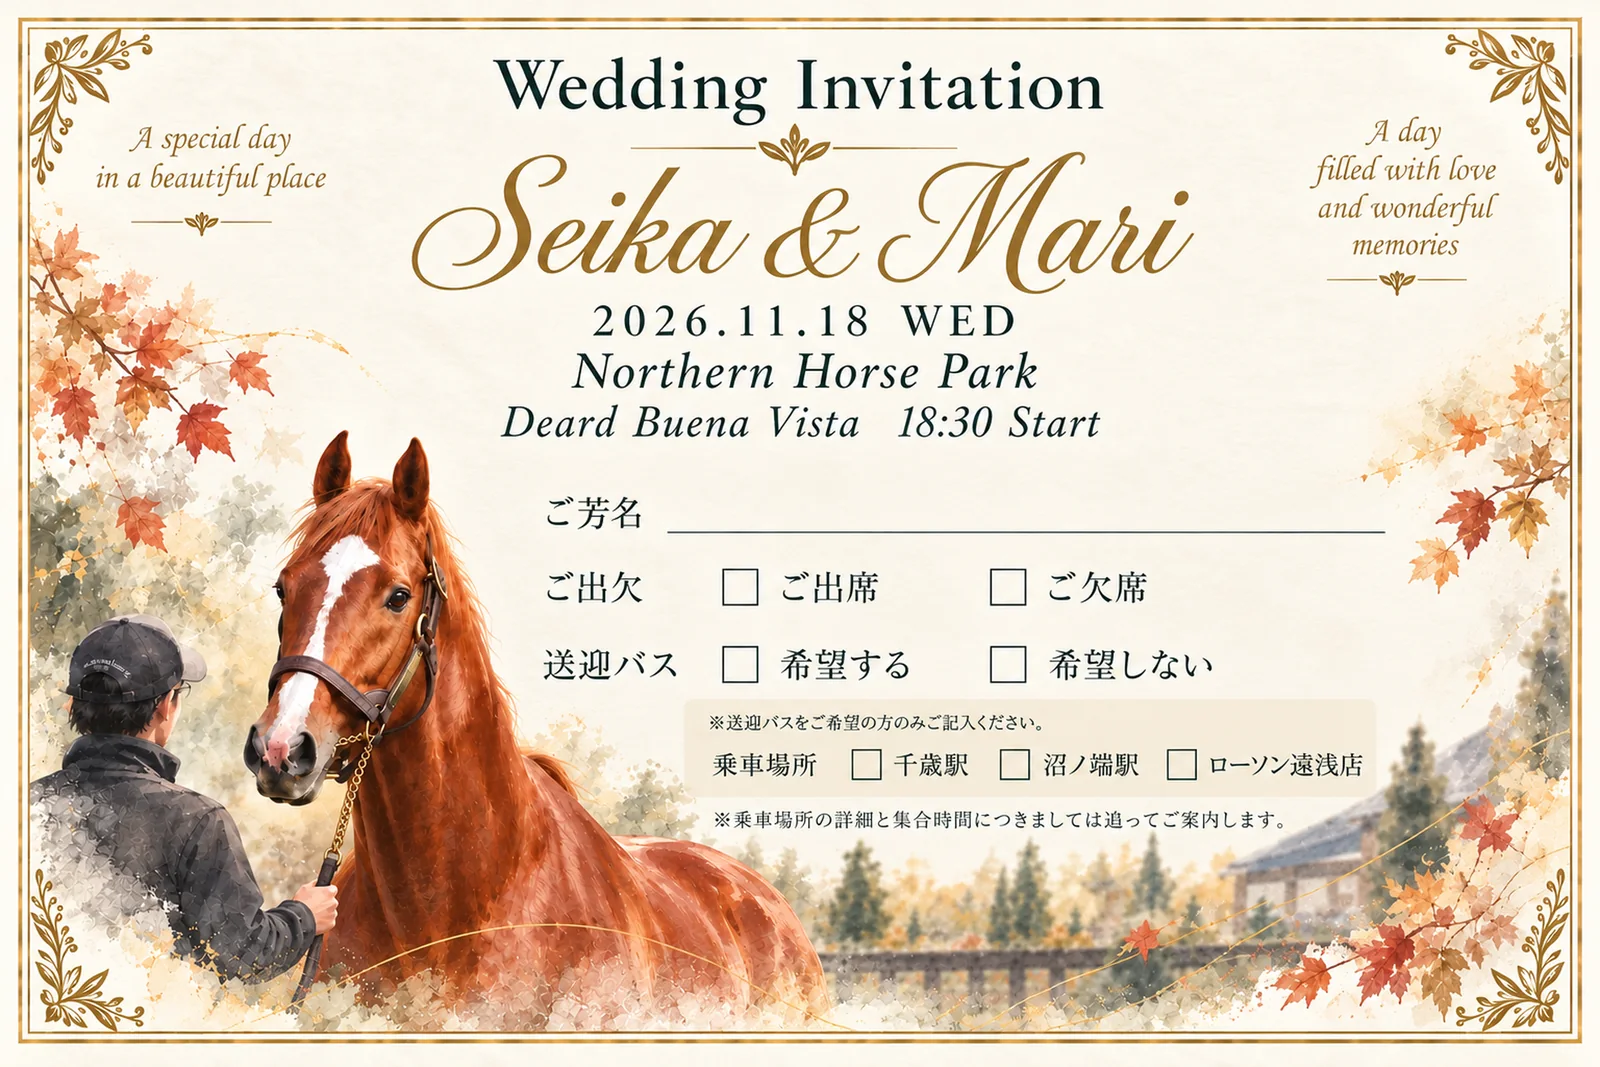
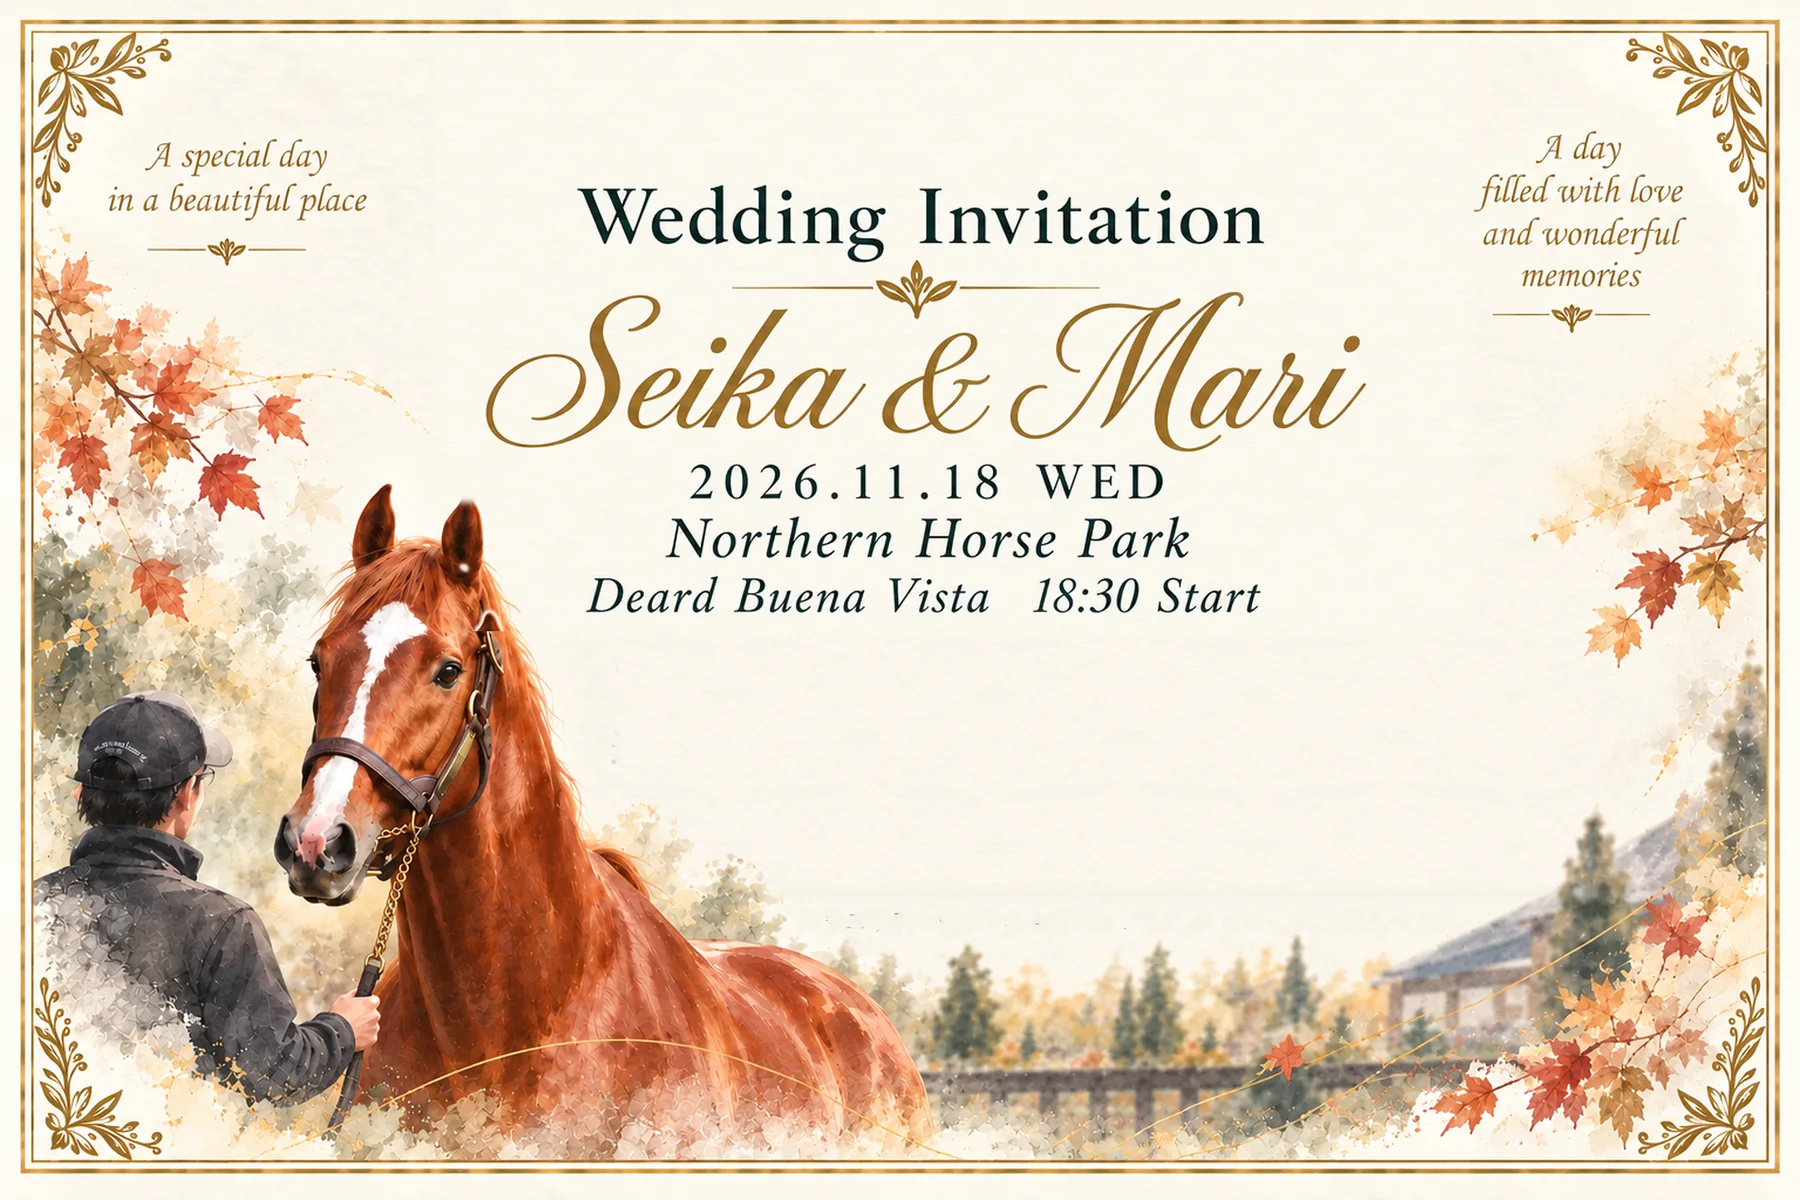
Rework the card without reply fields; fade paintings behind the greeting

Changed region(s): [[0.25, 0.0309, 0.8438, 0.7732], [0.6562, 0.5876, 0.75, 0.6495], [0.25, 0.4948, 0.2812, 0.5258]]

diff --git a/index.html b/index.html
@@ -9,7 +9,7 @@
 <meta property="og:url" content="https://seika-mari-wedding.github.io/hokkaido/">
 <meta property="og:title" content="Seika &amp; Mari — お祝いの会のご案内">
 <meta property="og:description" content="2026年11月18日（水）午後6時30分 開宴／ノーザンホースパーク Deard Buena Vista">
-<meta property="og:image" content="https://seika-mari-wedding.github.io/hokkaido/ogp.jpg">
+<meta property="og:image" content="https://seika-mari-wedding.github.io/hokkaido/ogp.jpg?v=2">
 <meta property="og:image:width" content="1200">
 <meta property="og:image:height" content="630">
 <meta property="og:locale" content="ja_JP">
@@ -102,7 +102,16 @@ h1,h2,h3,p,dl,dd,figure{margin:0}
 /* ── 招待状らしい額 ── */
 .card{position:relative;background:var(--paper-2);border:1px solid var(--line);
  padding:clamp(44px,7vw,78px) clamp(24px,5vw,56px);box-shadow:0 24px 60px rgba(90,56,22,.1)}
-.card:before{content:"";position:absolute;inset:9px;border:1px solid #ecdcc0;pointer-events:none}
+.card:before{content:"";position:absolute;inset:9px;border:1px solid #ecdcc0;pointer-events:none;z-index:2}
+.card{overflow:hidden;isolation:isolate}
+.card > *:not(.card-bg){position:relative;z-index:1}
+.card > .orn{position:absolute;z-index:2}
+.card-bg{position:absolute;inset:0;z-index:0;pointer-events:none}
+.card-bg figure{margin:0;position:absolute;inset:0;opacity:0;transition:opacity 2.4s ease}
+.card-bg figure.on{opacity:1}
+.card-bg img{width:100%;height:100%;object-fit:cover;opacity:.17;filter:sepia(.25) saturate(.8)}
+.card-bg:after{content:"";position:absolute;inset:0;
+ background:radial-gradient(ellipse at center,rgba(253,248,238,.62) 0,rgba(253,248,238,.34) 55%,rgba(253,248,238,.12) 100%)}
 .orn{position:absolute;width:62px;height:70px;background:url(ornament.webp) center/contain no-repeat;opacity:.9;pointer-events:none}
 .orn.tl{left:6px;top:6px}
 .orn.tr{right:6px;top:6px;transform:scaleX(-1)}
@@ -123,18 +132,6 @@ h1,h2,h3,p,dl,dd,figure{margin:0}
 .stops b{display:block;font:400 clamp(17px,2vw,20px) var(--jp);letter-spacing:.14em}
 .stops span{display:block;margin-top:8px;font:300 10px var(--jps);letter-spacing:.34em;text-transform:uppercase;color:var(--sub)}
 
-.slider{position:relative;overflow:hidden;background:#efe4d2;touch-action:pan-y;aspect-ratio:21/9}
-.slider:focus-visible{outline:1px solid var(--gold);outline-offset:4px}
-.slider:after{content:"";position:absolute;inset:0;pointer-events:none;
- background:linear-gradient(rgba(247,239,224,.3),rgba(247,239,224,.06) 34%,rgba(247,239,224,.3)),
-  linear-gradient(90deg,var(--paper),rgba(247,239,224,0) 14%,rgba(247,239,224,0) 86%,var(--paper))}
-.slides{position:absolute;inset:0}
-.slides figure{margin:0;position:absolute;inset:0;opacity:0;transition:opacity 1.8s ease}
-.slides figure.on{opacity:1}
-.slides img{width:100%;height:100%;object-fit:cover;display:block;filter:saturate(.88)}
-.dots{display:flex;justify-content:center;gap:10px;margin-top:18px}
-.dots button{width:5px;height:5px;padding:0;border:0;border-radius:50%;background:var(--line);cursor:pointer;transition:background .5s}
-.dots button[aria-selected="true"]{background:var(--amber)}
 
 .band{height:clamp(170px,26vw,280px);background:url(scene.webp) center 72%/cover no-repeat;
  -webkit-mask-image:linear-gradient(#0000,#000 38%,#000 76%,#0000);mask-image:linear-gradient(#0000,#000 38%,#000 76%,#0000)}
@@ -199,7 +196,6 @@ footer{padding:clamp(60px,9vw,96px) 0 clamp(50px,7vw,80px);text-align:center}
  .facts > div{grid-template-columns:1fr;gap:6px;padding:20px 2px}
  .facts dt{padding-top:0}
  .stops{grid-template-columns:1fr}
- .slider{aspect-ratio:3/2}
  .card{padding:34px 20px}
  .orn{width:46px;height:52px}
  .letter{font-size:14.5px;line-height:2.5;letter-spacing:.04em}
@@ -227,7 +223,7 @@ footer{padding:clamp(60px,9vw,96px) 0 clamp(50px,7vw,80px);text-align:center}
 <main id="main">
 <section class="hero">
   <figure class="hero-card">
-   <img src="card.webp" width="1600" height="1067" fetchpriority="high"
+   <img src="card.webp?v=2" width="1600" height="1067" fetchpriority="high"
     alt="Wedding Invitation Seika &amp; Mari／2026.11.18 WED／Northern Horse Park／Deard Buena Vista 18:30 Start と記された、紅葉と馬の水彩画の招待状">
   </figure>
   <div class="hero-under">
@@ -244,6 +240,12 @@ footer{padding:clamp(60px,9vw,96px) 0 clamp(50px,7vw,80px);text-align:center}
 <section class="section" id="greeting">
  <div class="narrow">
   <div class="card rv">
+   <div class="card-bg" id="card-bg" aria-hidden="true">
+    <figure class="on"><img src="race1.webp" width="1280" height="960" alt=""></figure>
+    <figure><img src="race2.webp" width="1280" height="720" loading="lazy" alt=""></figure>
+    <figure><img src="race3.webp" width="1280" height="720" loading="lazy" alt=""></figure>
+    <figure><img src="race4.webp" width="1280" height="960" loading="lazy" alt=""></figure>
+   </div>
    <span class="orn tl" aria-hidden="true"></span><span class="orn tr" aria-hidden="true"></span>
    <span class="orn bl" aria-hidden="true"></span><span class="orn br" aria-hidden="true"></span>
   <div class="sec-head rv"><span class="sec-no">01</span><span class="sec-en">Message</span><i class="sec-line"></i></div>
@@ -294,24 +296,9 @@ footer{padding:clamp(60px,9vw,96px) 0 clamp(50px,7vw,80px);text-align:center}
  <p class="count rv"><strong data-countdown>—</strong>Days to go</p>
 </section>
 
-<section class="section" id="gallery">
- <div class="wrap">
-  <div class="sec-head rv"><span class="sec-no">04</span><span class="sec-en">Gallery</span><i class="sec-line"></i><h2 class="sec-ja">思い出の絵</h2></div>
-  <div class="slider rv" id="slider" tabindex="0" aria-label="思い出の絵（左右にスワイプできます）">
-   <div class="slides" id="slides">
-    <figure><img src="race1.webp" width="1280" height="960" loading="lazy" alt="先頭で競り合う馬群を描いた水彩画"></figure>
-    <figure><img src="race2.webp" width="1280" height="720" loading="lazy" alt="直線を独走する栗毛の馬の水彩画"></figure>
-    <figure><img src="race3.webp" width="1280" height="720" loading="lazy" alt="ゴール後に天を指す騎手の水彩画"></figure>
-    <figure><img src="race4.webp" width="1280" height="960" loading="lazy" alt="秋の芝コースを駆け抜ける馬群の水彩画"></figure>
-   </div>
-   <div class="dots" id="dots" role="tablist" aria-label="絵の切り替え"></div>
-  </div>
- </div>
-</section>
-
 <section class="section rsvp" id="rsvp">
  <div class="narrow">
-  <div class="sec-head rv"><span class="sec-no">05</span><span class="sec-en">R.S.V.P.</span><i class="sec-line"></i><h2 class="sec-ja">ご出欠のお返事</h2></div>
+  <div class="sec-head rv"><span class="sec-no">04</span><span class="sec-en">R.S.V.P.</span><i class="sec-line"></i><h2 class="sec-ja">ご出欠のお返事</h2></div>
   <p class="deadline rv">お手数ながらご都合の程を<br><b>2026年10月20日（火）</b>までにお知らせくださいますようお願い申し上げます</p>
   <p class="form-notice rv" id="form-notice">ただいま受付の準備中です。いましばらくお待ちください。</p>
   <form id="rsvp-form" class="rv" novalidate>
@@ -358,7 +345,7 @@ footer{padding:clamp(60px,9vw,96px) 0 clamp(50px,7vw,80px);text-align:center}
 
 <section class="section" id="information">
  <div class="narrow">
-  <div class="sec-head rv"><span class="sec-no">06</span><span class="sec-en">Information</span><i class="sec-line"></i><h2 class="sec-ja">ご案内</h2></div>
+  <div class="sec-head rv"><span class="sec-no">05</span><span class="sec-en">Information</span><i class="sec-line"></i><h2 class="sec-ja">ご案内</h2></div>
   <details class="rv"><summary>お車でお越しの方へ</summary><p>ノーザンホースパークの駐車場をご利用いただけます。お飲みになる方は、送迎バスまたは代行・タクシーのご利用をお願いいたします。</p></details>
   <details class="rv"><summary>お子様とご一緒の方へ</summary><p>お子様もご一緒にお越しいただけます。人数とお子様の年齢を、お返事のメッセージ欄にご記入ください。</p></details>
   <details class="rv"><summary>お問い合わせ</summary><p>ご不明な点がございましたら、お手数ですが新郎新婦までご連絡ください。</p></details>
@@ -453,50 +440,19 @@ document.documentElement.classList.add('js-in');
  setTimeout(()=>{ if(items.length) reveal(); }, 2500);   // 念のための保険
 })();
 
-/* ── 思い出の絵：ゆっくり切り替わるスライド ── */
+/* ── ごあいさつの裏の絵：ゆっくり入れ替える ── */
 (function(){
- const box = $('#slides'), dots = $('#dots'), frame = $('#slider');
- if(!box || !dots || !frame) return;
- const n = box.children.length;
- const soft = !matchMedia('(prefers-reduced-motion: reduce)').matches;
- let cur = 0, paused = false, timer = 0;
- for(let i = 0; i < n; i++){
-  const b = document.createElement('button');
-  b.type = 'button'; b.setAttribute('role','tab');
-  b.setAttribute('aria-label', (i + 1) + '枚目');
-  b.addEventListener('click', () => { go(i); hold(); });
-  dots.append(b);
- }
- function go(i){
-  cur = (i + n) % n;
-  [...box.children].forEach((f, k) => f.classList.toggle('on', k === cur));
-  [...dots.children].forEach((d, k) => d.setAttribute('aria-selected', k === cur ? 'true' : 'false'));
- }
- function hold(){ paused = true; clearTimeout(timer); timer = setTimeout(() => { paused = false; }, 9000); }
- go(0);
-
- // 指でなぞって切り替え
- let x0 = null;
- frame.addEventListener('touchstart', e => { x0 = e.touches[0].clientX; paused = true; }, {passive:true});
- frame.addEventListener('touchend', e => {
-  if(x0 === null) return;
-  const dx = e.changedTouches[0].clientX - x0; x0 = null;
-  if(Math.abs(dx) > 40) go(cur + (dx < 0 ? 1 : -1));
-  hold();
- }, {passive:true});
- frame.addEventListener('keydown', e => {
-  if(e.key === 'ArrowRight'){ go(cur + 1); hold(); }
-  if(e.key === 'ArrowLeft'){ go(cur - 1); hold(); }
- });
- frame.addEventListener('pointerenter', () => { paused = true; });
- frame.addEventListener('pointerleave', () => { paused = false; });
-
- if(soft) setInterval(() => {
-  if(paused || document.hidden) return;
-  const r = frame.getBoundingClientRect();
+ const bg = $('#card-bg'); if(!bg) return;
+ if(matchMedia('(prefers-reduced-motion: reduce)').matches) return;
+ const figs = [...bg.children]; let cur = 0;
+ setInterval(() => {
+  if(document.hidden) return;
+  const r = bg.getBoundingClientRect();
   if(r.bottom < 0 || r.top > innerHeight) return;   // 画面にないときは動かさない
-  go(cur + 1);
- }, 6400);
+  figs[cur].classList.remove('on');
+  cur = (cur + 1) % figs.length;
+  figs[cur].classList.add('on');
+ }, 6000);
 })();
 
 /* ── お返事（Googleフォームへ引き継ぐ） ── */
